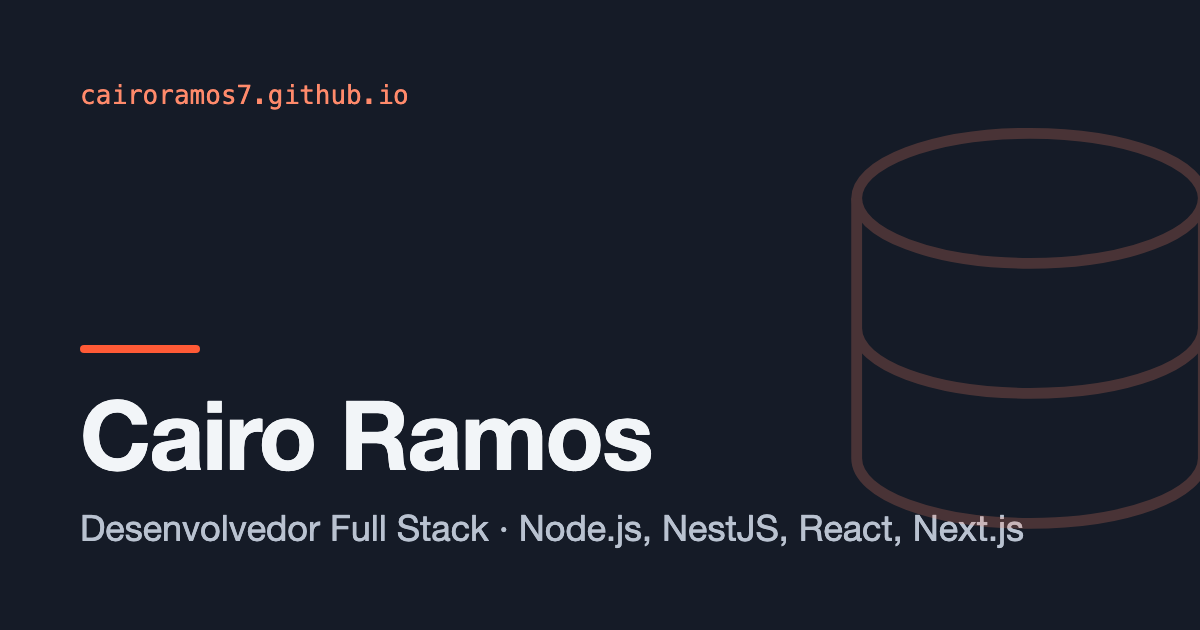
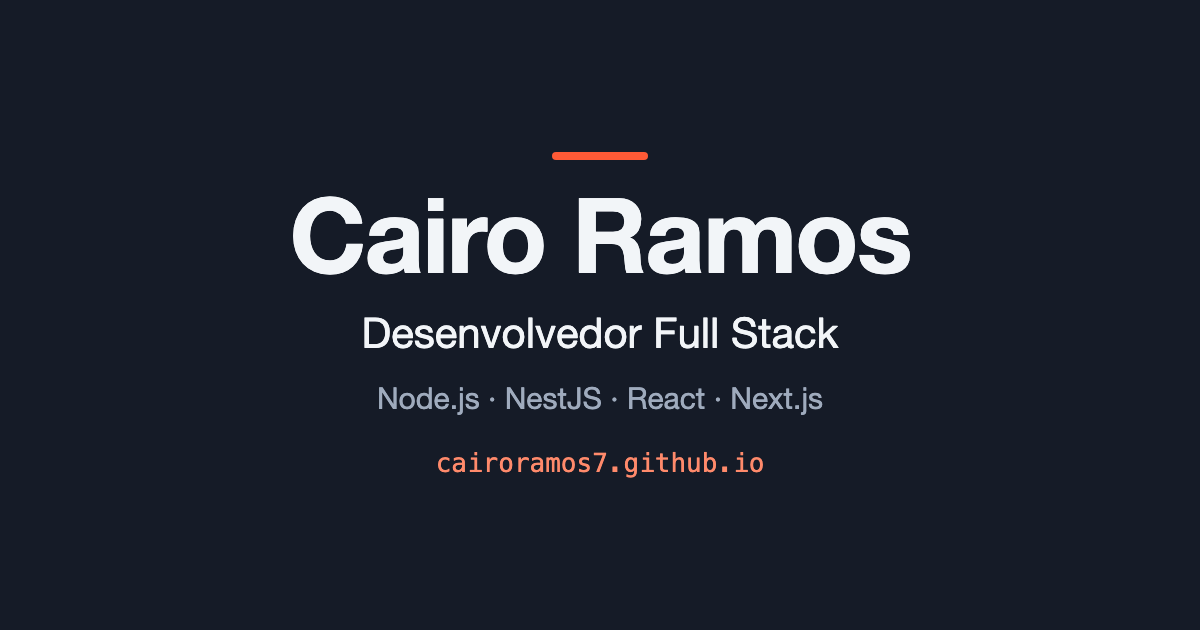
Redesign share image with safe margins

diff --git a/index.html b/index.html
@@ -17,18 +17,18 @@
 <meta property="og:url" content="https://cairoramos7.github.io/">
 <meta property="og:title" content="Cairo Ramos — Desenvolvedor Full Stack">
 <meta property="og:description" content="Node.js, NestJS, React e Next.js. Mais de 10 anos em produção, trabalhando remotamente a partir do Brasil.">
-<meta property="og:image" content="https://cairoramos7.github.io/og-image.png">
+<meta property="og:image" content="https://cairoramos7.github.io/og-image.png?v=2">
 <meta property="og:image:width" content="1200">
 <meta property="og:image:height" content="630">
 <meta property="og:image:alt" content="Cairo Ramos, Desenvolvedor Full Stack">
 <meta name="twitter:card" content="summary_large_image">
 <meta name="twitter:title" content="Cairo Ramos — Desenvolvedor Full Stack">
 <meta name="twitter:description" content="Node.js, NestJS, React e Next.js. Mais de 10 anos em produção.">
-<meta name="twitter:image" content="https://cairoramos7.github.io/og-image.png">
+<meta name="twitter:image" content="https://cairoramos7.github.io/og-image.png?v=2">
 <link rel="icon" href="favicon.svg" type="image/svg+xml">
 <link rel="apple-touch-icon" href="apple-touch-icon.png">
 <script type="application/ld+json">
-{"@context":"https://schema.org","@type":"Person","name":"Cairo Ramos","url":"https://cairoramos7.github.io/","image":"https://cairoramos7.github.io/og-image.png","jobTitle":"Desenvolvedor Full Stack","description":"Portfólio de Cairo Ramos, desenvolvedor full stack com mais de 10 anos de experiência em Node.js, NestJS, React e Next.js. Trabalha remotamente a partir do Brasil.","address":{"@type":"PostalAddress","addressCountry":"BR"},"knowsAbout":["Node.js","NestJS","React","Next.js","TypeScript","SQL Server","PostgreSQL","Docker"],"knowsLanguage":["pt-BR","en"],"sameAs":["https://github.com/cairoramos7","https://www.linkedin.com/in/cairoramos-dev/"]}
+{"@context":"https://schema.org","@type":"Person","name":"Cairo Ramos","url":"https://cairoramos7.github.io/","image":"https://cairoramos7.github.io/og-image.png?v=2","jobTitle":"Desenvolvedor Full Stack","description":"Portfólio de Cairo Ramos, desenvolvedor full stack com mais de 10 anos de experiência em Node.js, NestJS, React e Next.js. Trabalha remotamente a partir do Brasil.","address":{"@type":"PostalAddress","addressCountry":"BR"},"knowsAbout":["Node.js","NestJS","React","Next.js","TypeScript","SQL Server","PostgreSQL","Docker"],"knowsLanguage":["pt-BR","en"],"sameAs":["https://github.com/cairoramos7","https://www.linkedin.com/in/cairoramos-dev/"]}
 </script>
 <link rel="preconnect" href="https://fonts.googleapis.com">
 <link rel="preconnect" href="https://fonts.gstatic.com" crossorigin>
